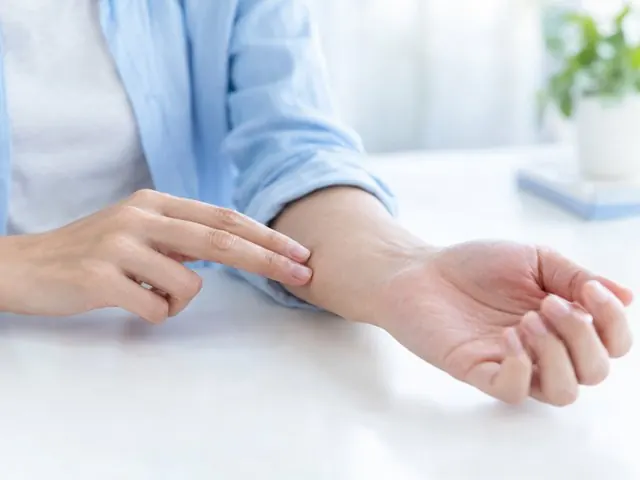
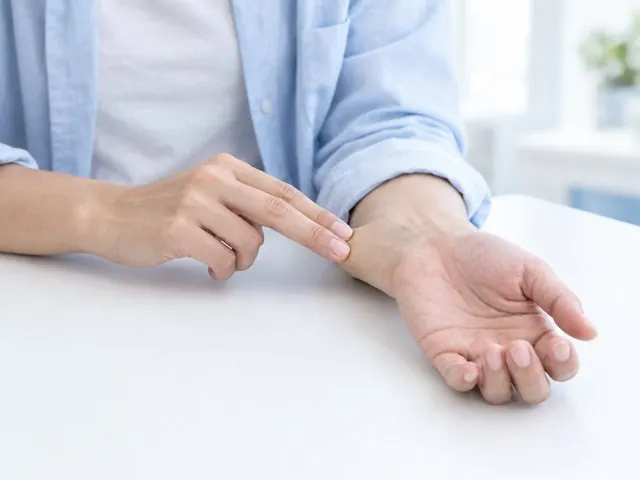
진료 영역: images for 위험인자 cards; fix pulse position in 심계항진 image
Claude-Session: https://claude.ai/code/session_01T3YMAMwXMYyEDHX8XPyYDL

diff --git a/care/index.html b/care/index.html
@@ -685,7 +685,7 @@ body{word-break:keep-all;overflow-wrap:break-word}
 <div class="cards">
   <div class="card has-img"><div class="card-img"><img src="/assets/sym-chest.webp" alt="가슴에 손을 얹은 흉통 증상" width="640" height="480" loading="lazy" decoding="async"></div><h3>흉통</h3>
     <p>가슴이 조이거나 눌리는 느낌, 활동 시 악화되는 통증.</p></div>
-  <div class="card has-img"><div class="card-img"><img src="/assets/sym-palpitation.webp" alt="손목 맥박을 짚어 보는 모습" width="640" height="480" loading="lazy" decoding="async"></div><h3>심계항진</h3>
+  <div class="card has-img"><div class="card-img"><img src="/assets/sym-palpitation.webp?v=2" alt="손목 맥박을 짚어 보는 모습" width="640" height="480" loading="lazy" decoding="async"></div><h3>심계항진</h3>
     <p>맥이 불규칙하거나 갑자기 빨라지는 증상, 부정맥 의심.</p></div>
   <div class="card has-img"><div class="card-img"><img src="/assets/sym-breath.webp" alt="계단에서 숨이 차 난간을 잡은 모습" width="640" height="480" loading="lazy" decoding="async"></div><h3>호흡곤란</h3>
     <p>계단이나 경사에서 유독 숨이 차는 경우, 심부전 감별.</p></div>
@@ -702,15 +702,15 @@ body{word-break:keep-all;overflow-wrap:break-word}
 <p class="lede">단회 진료가 아니라 수치의 추이를 근거로 판단합니다. 타 의료기관에서 복용하던 약제도
 이어서 처방 가능하며, 이전 진료기록이나 약제 정보를 지참하시면 도움이 됩니다.</p>
 <div class="cards">
-  <div class="card"><div class="icon"><svg viewBox="0 0 24 24" xmlns="http://www.w3.org/2000/svg"><path d="M12 3.5S6.5 9.7 6.5 13.6a5.5 5.5 0 0 0 11 0C17.5 9.7 12 3.5 12 3.5Z"/><path d="M9.5 14a2.5 2.5 0 0 0 2.5 2.5"/></svg></div><h3>고혈압</h3>
+  <div class="card has-img"><div class="card-img"><img src="/assets/risk-bp.webp" alt="혈압 측정 커프를 위팔에 감은 모습" width="640" height="480" loading="lazy" decoding="async"></div><h3>고혈압</h3>
     <p>혈압 측정과 약제 조절, 심전도·혈액검사로 표적장기 손상 여부를 확인합니다.</p></div>
-  <div class="card"><div class="icon"><svg viewBox="0 0 24 24" xmlns="http://www.w3.org/2000/svg"><path d="M12 3.5S6.5 9.7 6.5 13.6a5.5 5.5 0 0 0 11 0C17.5 9.7 12 3.5 12 3.5Z"/><path d="M9.5 14a2.5 2.5 0 0 0 2.5 2.5"/></svg></div><h3>당뇨</h3>
+  <div class="card has-img"><div class="card-img"><img src="/assets/risk-diabetes.webp" alt="손끝 채혈로 혈당을 측정하는 모습" width="640" height="480" loading="lazy" decoding="async"></div><h3>당뇨</h3>
     <p>공복혈당과 당화혈색소를 추적하고 합병증 검사를 병행합니다.
     유마이닥터 혈당관리 시스템으로 한 달 단위 추이를 함께 봅니다.</p>
     <div class="meta"><span>혈당관리 시스템</span><span><a href="../diabetes/" style="color:var(--b700)">자세히 →</a></span></div></div>
-  <div class="card"><div class="icon"><svg viewBox="0 0 24 24" xmlns="http://www.w3.org/2000/svg"><path d="M8 3.5v5.5a4 4 0 0 0 4 4 4 4 0 0 1 4 4v3.5"/><path d="M16 3.5v3"/><circle cx="8" cy="20.5" r="1.5"/></svg></div><h3>이상지질혈증</h3>
+  <div class="card has-img"><div class="card-img"><img src="/assets/risk-lipid.webp" alt="연어와 채소, 귀리로 차린 심장 건강 식단" width="640" height="480" loading="lazy" decoding="async"></div><h3>이상지질혈증</h3>
     <p>지질 수치와 심혈관 위험도를 함께 평가해 약물치료 여부를 결정합니다.</p></div>
-  <div class="card"><div class="icon"><svg viewBox="0 0 24 24" xmlns="http://www.w3.org/2000/svg"><path d="M6 3.5v4.7a4 4 0 0 0 8 0V3.5"/><path d="M6 3.5H4.2M14 3.5h1.8"/><path d="M10 12.2v1.9a5 5 0 0 0 5 5 3.8 3.8 0 0 0 3.8-3.8v-2.2"/><circle cx="18.8" cy="10.4" r="1.9"/></svg></div><h3>갑상선질환</h3>
+  <div class="card has-img"><div class="card-img"><img src="/assets/risk-thyroid.webp" alt="목 앞쪽 갑상선을 촉진하는 진찰" width="640" height="480" loading="lazy" decoding="async"></div><h3>갑상선질환</h3>
     <p>기능저하증·항진증의 호르몬 수치 확인 및 용량 조절.</p></div>
 </div>
 </div></section>
